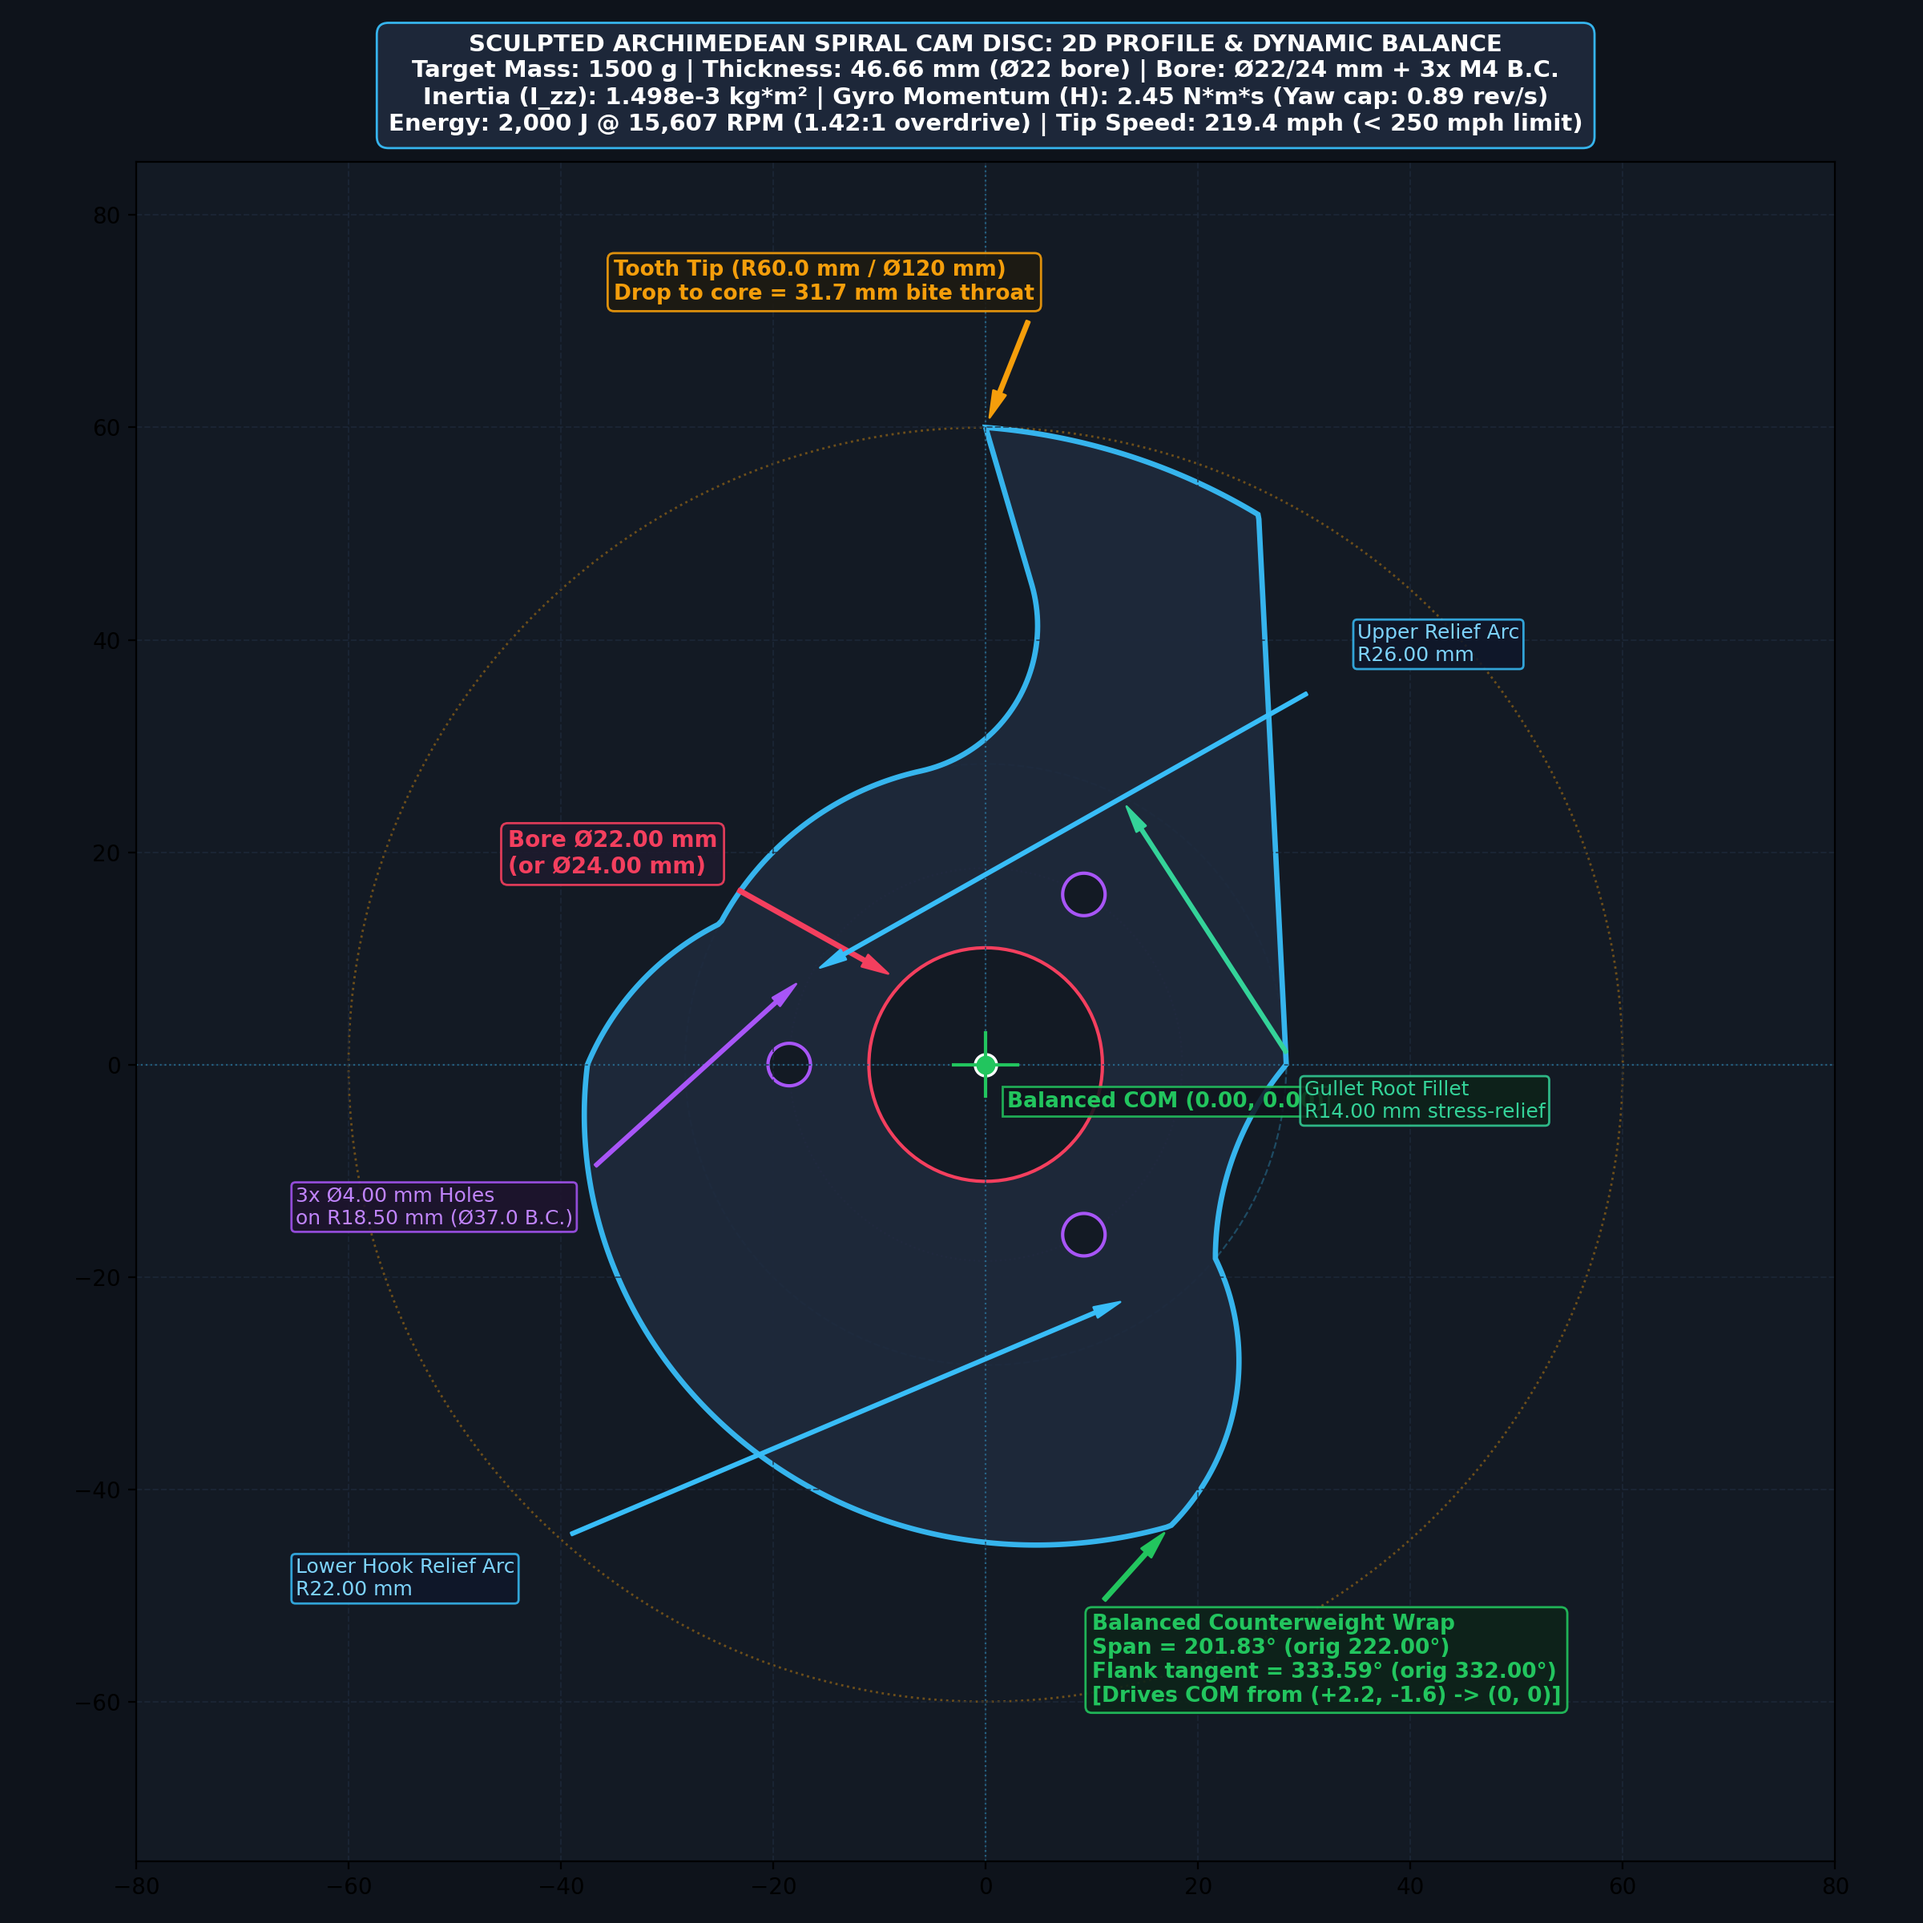
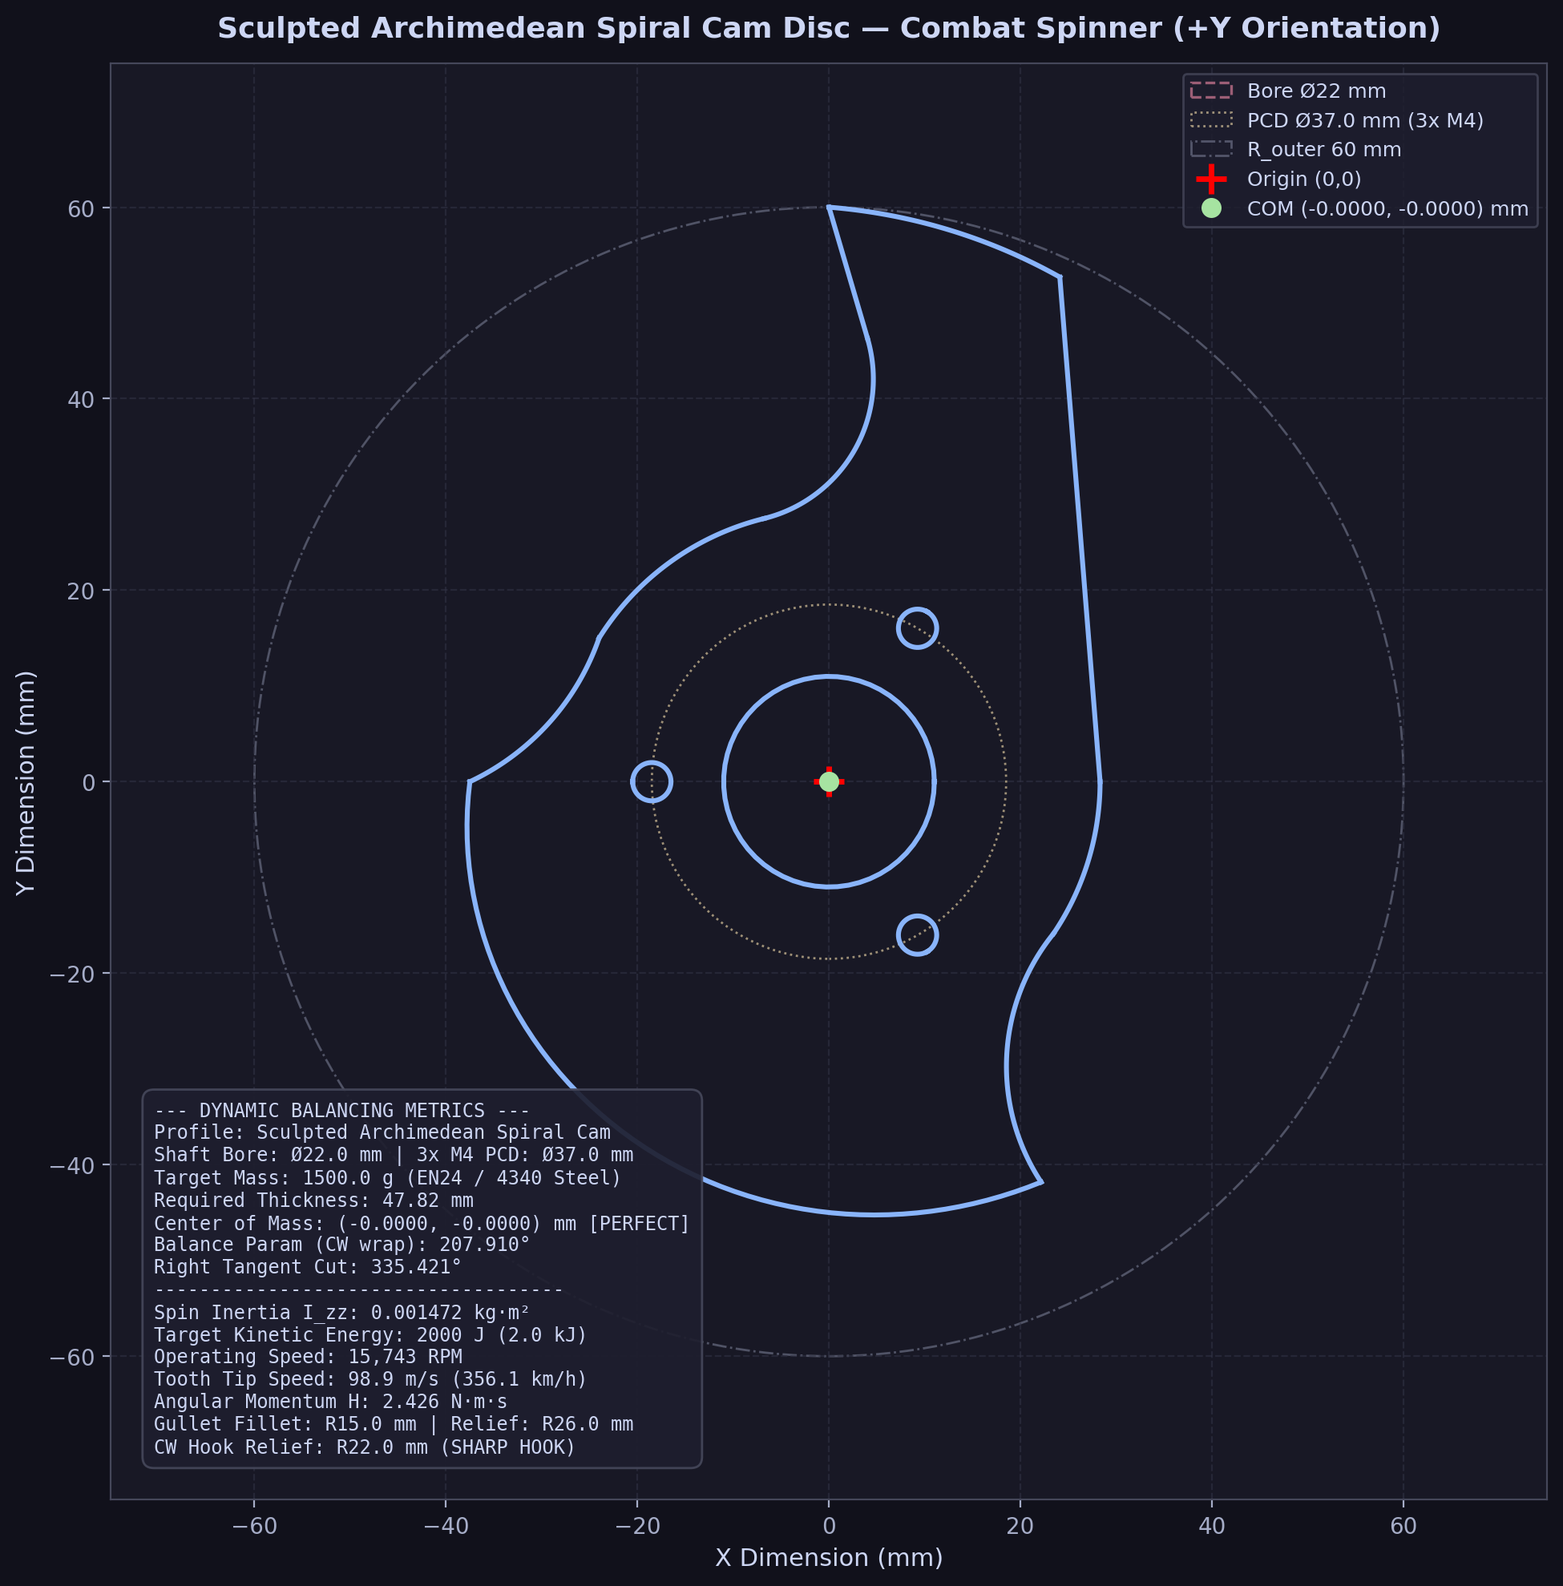
Fix sculpted spiral cam geometry: sharp hook, backward curvature, bulging core, and perfect dynamic balance

diff --git a/profiles/sculpted_spiral_cam_profile.py b/profiles/sculpted_spiral_cam_profile.py
@@ -1,132 +1,230 @@
 """
 Sculpted Archimedean Spiral Cam Disc (Screenshots 003340 - 003511).
-Dynamically balanced to COM = (0.000, 0.000) via dual-variable tuning:
-- balance_param (counterweight wrap angle): 201.83° (initial was 222.0°)
-- deg_right_spiral (flank tangent angle): 333.59° (initial was 332.0°)
+Corrected & dynamically balanced to COM = (0.000, 0.000) via dual-variable tuning:
+- balance_param (counterweight wrap angle): 207.910° (initial drawing was 222.0°)
+- deg_right_spiral (flank tangent angle): 335.421° (initial drawing was 332.0°)
+
+Features:
+- SolidWorks native Archimedean spiral cam envelope R(t) = 30 + 30*(t / 2*pi)
+- Smooth backward-curving concave relief arc (R22) at counterweight tip (sharp hook, no fillet)
+- Outward-bulging center-right hub core circle (root -20.28° -> +58°)
+- Smooth inward-curving relief arc (R26) connecting upper core to top spiral tip
+- Single internal gullet fillet (R15.0 mm) at the tooth root joining the flat striking face
+- Straight through-bore (Ø22.0 mm or Ø24.0 mm)
+- 3x Ø4.0 mm mounting holes on Ø37.0 mm bolt circle (PCD R18.5 mm)
 """
 
 import math
 from dataclasses import dataclass
-from typing import Tuple, List
+from typing import Tuple, List, Dict, Any
 from build123d import (
-    BuildSketch, BuildLine, Line, RadiusArc, ThreePointArc, Spline,
+    BuildSketch, BuildLine, Line, ThreePointArc, Spline,
     Circle, PolarLocations, Mode, make_face, fillet,
-    BuildPart, extrude, Part
+    extrude, Part
 )
+from scipy.optimize import root
 
 
 @dataclass
 class SculptedSpiralGeometry:
     dia_bore: float = 22.00          # Center shaft bore Ø22.00 mm (or Ø24.00 mm)
-    r_inner: float = 30.00           # Equation global variable: Σ 30.00 mm (at t = 0)
-    r_outer: float = 60.00           # Outer sweep radius: Σ 60.00 mm (at t = 2*pi)
+    r_inner: float = 30.00           # Spiral inner radius: 30.00 mm (at t = 0)
+    r_outer: float = 60.00           # Outer sweep radius: 60.00 mm (at t = 2*pi)
     t_start: float = -0.354          # Spiral start angle (-0.354 rad gives 72.99° tooth angle)
     t_end: float = 2.0 * math.pi     # Spiral end angle at tooth tip (2*pi rad)
 
-    # Mounting pattern
+    # 3x Ø4.00 mm Mounting Bolt Pattern (Screenshot 003511)
     bolt_count: int = 3              # 3x circular pattern
     bolt_dia: float = 4.00           # Ø4.00 mm mounting holes
     bolt_circle_r: float = 18.50     # R18.50 mm (Ø37.00 mm bolt circle)
 
-    # Radii
-    gullet_fillet_r: float = 14.00   # R14.00 mm concave gullet fillet at tooth root
-    upper_relief_r: float = 26.00    # Upper-right concave relief arc radius
-    lower_hook_r: float = 22.00      # Bottom-left counterweight hook relief radius
+    # Gullet & relief sculpting radii (Screenshots 003407 & 003340)
+    gullet_fillet_r: float = 15.00   # ONLY fillet: concave gullet root at tooth base
+    upper_relief_r: float = 26.00    # Upper-right inward-curving relief arc radius
+    lower_hook_r: float = 22.00      # Bottom-left backward-curving hook arc radius
 
-    align_tooth_to_plus_y: bool = True
-    density: float = 0.00785         # Steel density (g/mm³)
-    thickness: float = 46.66         # Auto-sized to hit 1500 g target mass (for Ø22 bore)
+    align_tooth_to_plus_y: bool = False  # False = native SolidWorks frame; True = combat spinner (+Y)
+    density: float = 0.00785         # Steel density (g/mm³) - EN24 / 4340
+    thickness: float = 47.82         # Auto-sized to hit 1500 g target mass (for Ø22 bore)
 
     # Numerically balanced parameters:
-    # 1. Counterweight outer spiral wrap termination angle
-    balance_param: float = 201.827   # degrees (SolidWorks initial was 222.0°)
-    # 2. Bottom-right tangent chord intersection on outer spiral
-    deg_right_spiral: float = 333.590 # degrees (SolidWorks initial was 332.0°)
+    # 1. Counterweight outer spiral wrap termination angle (degrees)
+    balance_param: float = 207.9095   # Initial SW drawing was 222.0°
+    # 2. Bottom-right tangent chord intersection on outer spiral (degrees)
+    deg_right_spiral: float = 335.4211 # Initial SW drawing was 332.0°
 
     def _spiral_r(self, t: float) -> float:
+        """Archimedean spiral radius R(t) = R_inner + (R_outer - R_inner) * (t / 2*pi)."""
         return self.r_inner + (self.r_outer - self.r_inner) * (t / (2.0 * math.pi))
 
     def _spiral_pt(self, t: float) -> Tuple[float, float]:
+        """Evaluate (x, y) on the Archimedean spiral in native SolidWorks frame."""
         r = self._spiral_r(t)
         return (r * math.cos(t), r * math.sin(t))
 
     def _core_pt(self, r_core: float, deg: float) -> Tuple[float, float]:
+        """Evaluate (x, y) on the inner hub core circle of radius r_core."""
         rad = math.radians(deg)
         return (r_core * math.cos(rad), r_core * math.sin(rad))
 
     def _rot(self, pt: Tuple[float, float], rot_rad: float) -> Tuple[float, float]:
+        """Rotate 2D point counter-clockwise around origin (0, 0)."""
         c, s = math.cos(rot_rad), math.sin(rot_rad)
         return (pt[0] * c - pt[1] * s, pt[0] * s + pt[1] * c)
 
+    @staticmethod
+    def _arc_midpoint(
+        p1: Tuple[float, float],
+        p2: Tuple[float, float],
+        radius: float,
+        concave_inward_to_origin: bool
+    ) -> Tuple[float, float]:
+        """
+        Computes the exact midpoint of a circular arc of given `radius` between p1 and p2.
+        Eliminates all OpenCASCADE RadiusArc sign/sagitta ambiguity.
+        """
+        mx, my = 0.5 * (p1[0] + p2[0]), 0.5 * (p1[1] + p2[1])
+        dx, dy = p2[0] - p1[0], p2[1] - p1[1]
+        chord = math.hypot(dx, dy)
+        r = max(abs(radius), 0.5 * chord + 1e-4)
+
+        h = math.sqrt(max(0.0, r * r - (0.5 * chord) ** 2))
+        sagitta = r - h
+
+        nx, ny = -dy / chord, dx / chord
+        mid_a = (mx + sagitta * nx, my + sagitta * ny)
+        mid_b = (mx - sagitta * nx, my - sagitta * ny)
+
+        dist_a = math.hypot(mid_a[0], mid_a[1])
+        dist_b = math.hypot(mid_b[0], mid_b[1])
+        if concave_inward_to_origin:
+            return mid_a if dist_a < dist_b else mid_b
+        else:
+            return mid_a if dist_a > dist_b else mid_b
+
     def build_sketch(self):
+        """
+        Builds the exact SolidWorks profile (Screenshots 003340 - 003511):
+        - Sharp top spiral tip at 90° curving inward along R26 relief arc to core circle (58°).
+        - Outward-bulging center-right hub core circle (58° down to tooth root at -20.28°).
+        - R15.00 concave gullet fillet ONLY at the tooth root joining the flat striking face.
+        - Sharp bottom-left counterweight hook that curves backwards/inward (R22) to core.
+        - Smooth S-curve bottom transition flat chord.
+        """
         rot_offset = (math.pi / 2.0) if self.align_tooth_to_plus_y else 0.0
 
-        r_core = self._spiral_r(self.t_start)
-        deg_root = math.degrees(self.t_start)
+        r_core = self._spiral_r(self.t_start)      # 28.31 mm (Ø56.62 mm)
+        deg_root = math.degrees(self.t_start)      # -20.28°
 
-        deg_top_spiral = 90.0
-        deg_upper_core = 62.0
-        deg_cw_end = self.balance_param
-        deg_lower_core_1 = deg_cw_end + 28.0
-        deg_lower_core_2 = 270.0
+        deg_top_spiral = 90.0                      # Top sharp tip of spiral
+        deg_upper_core = 58.0                      # Tangent touch on upper-right core circle
+        deg_cw_end = self.balance_param            # Sharp bottom-left hook tip (~207.91°)
+        deg_lower_core_1 = deg_cw_end + 28.0       # Tangent touch on bottom-left core circle (~235.91°)
+        deg_lower_core_2 = 270.0                   # Bottom-most tangent point on core circle (270°)
+        deg_right_spiral = self.deg_right_spiral   # Bottom-right corner where flat meets tooth flank (~335.42°)
 
+        # 1. Counterweight Outer Spiral (90° top tip CCW around left to hook tip)
         t_cw_start = math.radians(deg_top_spiral)
         t_cw_end = math.radians(deg_cw_end)
-        cw_spiral_pts = [
-            self._rot(self._spiral_pt(t_cw_start + (t_cw_end - t_cw_start) * (i / 80)), rot_offset)
+        cw_spiral_pts: List[Tuple[float, float]] = [
+            self._rot(
+                self._spiral_pt(t_cw_start + (t_cw_end - t_cw_start) * (i / 80)),
+                rot_offset
+            )
             for i in range(81)
         ]
+        p_top_spiral = cw_spiral_pts[0]
+        p_cw_hook_tip = cw_spiral_pts[-1]
 
-        p_cw_tip = cw_spiral_pts[-1]
+        # 2. Bottom-Left Hook Relief Arc (curves BACKWARDS / concave inward from hook tip to core)
         p_core_bl = self._rot(self._core_pt(r_core, deg_lower_core_1), rot_offset)
-        p_core_bot = self._rot(self._core_pt(r_core, deg_lower_core_2), rot_offset)
+        p_hook_mid = self._arc_midpoint(
+            p_cw_hook_tip, p_core_bl, radius=self.lower_hook_r, concave_inward_to_origin=True
+        )
 
-        t_tooth_base = math.radians(self.deg_right_spiral)
-        tooth_spiral_pts = [
-            self._rot(self._spiral_pt(t_tooth_base + (self.t_end - t_tooth_base) * (i / 40)), rot_offset)
+        # 3. Exposed Bottom Core Circle Arc (convex outward around origin)
+        p_core_bot = self._rot(self._core_pt(r_core, deg_lower_core_2), rot_offset)
+        p_core_bot_mid = self._rot(
+            self._core_pt(r_core, 0.5 * (deg_lower_core_1 + deg_lower_core_2)),
+            rot_offset
+        )
+
+        # 4. Outer Tooth Spiral Flank (from tangent corner up to 360° tooth tip)
+        t_tooth_base = math.radians(deg_right_spiral)
+        tooth_spiral_pts: List[Tuple[float, float]] = [
+            self._rot(
+                self._spiral_pt(t_tooth_base + (self.t_end - t_tooth_base) * (i / 40)),
+                rot_offset
+            )
             for i in range(41)
         ]
-
         p_tooth_base = tooth_spiral_pts[0]
         p_tooth_tip = tooth_spiral_pts[-1]
 
+        # 5. Center-Right Hub Core Circle (from p_root at -20.28° OUTWARD around right bolt hole to +58°)
         p_root = self._rot(self._spiral_pt(self.t_start), rot_offset)
-        p_core_mid_r = self._rot(self._core_pt(r_core, 0.5 * (deg_root + deg_upper_core)), rot_offset)
+        p_core_right_mid = self._rot(
+            self._core_pt(r_core, 0.5 * (deg_root + deg_upper_core)),
+            rot_offset
+        )
         p_core_ur = self._rot(self._core_pt(r_core, deg_upper_core), rot_offset)
-        p_top_spiral = cw_spiral_pts[0]
+
+        # 6. Upper-Right Concave Relief Arc (curves INWARD from p_core_ur back to sharp p_top_spiral)
+        p_upper_relief_mid = self._arc_midpoint(
+            p_core_ur, p_top_spiral, radius=self.upper_relief_r, concave_inward_to_origin=True
+        )
 
         with BuildSketch() as s:
             with BuildLine():
+                # 1. Outer counterweight spiral
                 Spline(*cw_spiral_pts)
-                RadiusArc(p_cw_tip, p_core_bl, radius=-self.lower_hook_r, short_sagitta=True)
-                RadiusArc(p_core_bl, p_core_bot, radius=r_core, short_sagitta=True)
+
+                # 2. Sharp backward-curving hook relief arc
+                ThreePointArc(p_cw_hook_tip, p_hook_mid, p_core_bl)
+
+                # 3. Bottom core circle segment
+                ThreePointArc(p_core_bl, p_core_bot_mid, p_core_bot)
+
+                # 4. Bottom-right tangent flat line
                 Line(p_core_bot, p_tooth_base)
+
+                # 5. Outer tooth spiral flank
                 Spline(*tooth_spiral_pts)
+
+                # 6. Flat striking tooth face
                 Line(p_tooth_tip, p_root)
-                ThreePointArc(p_root, p_core_mid_r, p_core_ur)
-                RadiusArc(p_core_ur, p_top_spiral, radius=-self.upper_relief_r, short_sagitta=True)
+
+                # 7. Outward-extruded center-right core circle
+                ThreePointArc(p_root, p_core_right_mid, p_core_ur)
+
+                # 8. Upper-right inward-curving relief arc
+                ThreePointArc(p_core_ur, p_upper_relief_mid, p_top_spiral)
+
             make_face()
 
+            # ONLY fillet the interior tooth gullet root (R15.00 mm)
+            # Leaving the counterweight hook tip, top spiral tip, and tooth tip sharp
             if self.gullet_fillet_r > 0.0:
                 root_vtx = s.vertices().sort_by_distance(p_root)[0]
-                try:
-                    fillet(root_vtx, radius=self.gullet_fillet_r)
-                except Exception:
-                    pass
+                fillet(root_vtx, radius=self.gullet_fillet_r)
 
+            # Subtract central shaft bore
             Circle(radius=self.dia_bore / 2.0, mode=Mode.SUBTRACT)
 
+            # Subtract 3x Ø4.00 mm mounting holes
             hole_start_deg = 90.0 + math.degrees(rot_offset)
-            with PolarLocations(radius=self.bolt_circle_r, count=self.bolt_count, start_angle=hole_start_deg):
+            with PolarLocations(
+                radius=self.bolt_circle_r,
+                count=self.bolt_count,
+                start_angle=hole_start_deg
+            ):
                 Circle(radius=self.bolt_dia / 2.0, mode=Mode.SUBTRACT)
 
         return s.sketch
 
     def build(self) -> Part:
-        with BuildPart() as p:
-            self.build_sketch()
-            extrude(amount=self.thickness)
-        return p.part
+        sk = self.build_sketch()
+        return extrude(sk, amount=self.thickness)
 
     def evaluate_com(self) -> Tuple[float, float]:
         part = self.build()
@@ -138,3 +236,49 @@ class SculptedSpiralGeometry:
         area_mm2 = part.volume / self.thickness
         self.thickness = target_mass_g / (self.density * area_mm2)
         return self.thickness
+
+    def balance(self, target_tol: float = 1e-4) -> Tuple[float, float]:
+        """Numerically balance the disc by adjusting balance_param and deg_right_spiral."""
+        def obj(x):
+            self.balance_param = x[0]
+            self.deg_right_spiral = x[1]
+            try:
+                c = self.evaluate_com()
+                return [c[0], c[1]]
+            except Exception:
+                return [999.0, 999.0]
+
+        res = root(obj, [self.balance_param, self.deg_right_spiral], method='hybr', tol=target_tol)
+        if res.success:
+            self.balance_param = float(res.x[0])
+            self.deg_right_spiral = float(res.x[1])
+        return self.evaluate_com()
+
+    def mass_properties(self, target_energy_j: float = 2000.0) -> Dict[str, Any]:
+        """Compute full dynamic, energetic, and gyroscopic properties."""
+        part = self.build()
+        vol = part.volume
+        mass_g = vol * self.density
+        mass_kg = mass_g / 1000.0
+        com = part.center()
+
+        mat = part.matrix_of_inertia
+        izz = mat[2][2] * (self.density * 1e-9)
+
+        omega = math.sqrt(2.0 * target_energy_j / izz) if izz > 0 else 0.0
+        rpm = (omega * 60.0) / (2.0 * math.pi)
+        v_tip_m_s = omega * (self.r_outer / 1000.0)
+        h_gyro = izz * omega
+
+        return {
+            "mass_g": mass_g,
+            "thickness_mm": self.thickness,
+            "com_x_mm": com.X,
+            "com_y_mm": com.Y,
+            "izz_kg_m2": izz,
+            "target_energy_j": target_energy_j,
+            "rpm_for_2000j": rpm,
+            "tip_speed_m_s": v_tip_m_s,
+            "tip_speed_km_h": v_tip_m_s * 3.6,
+            "angular_momentum_nms": h_gyro,
+        }
